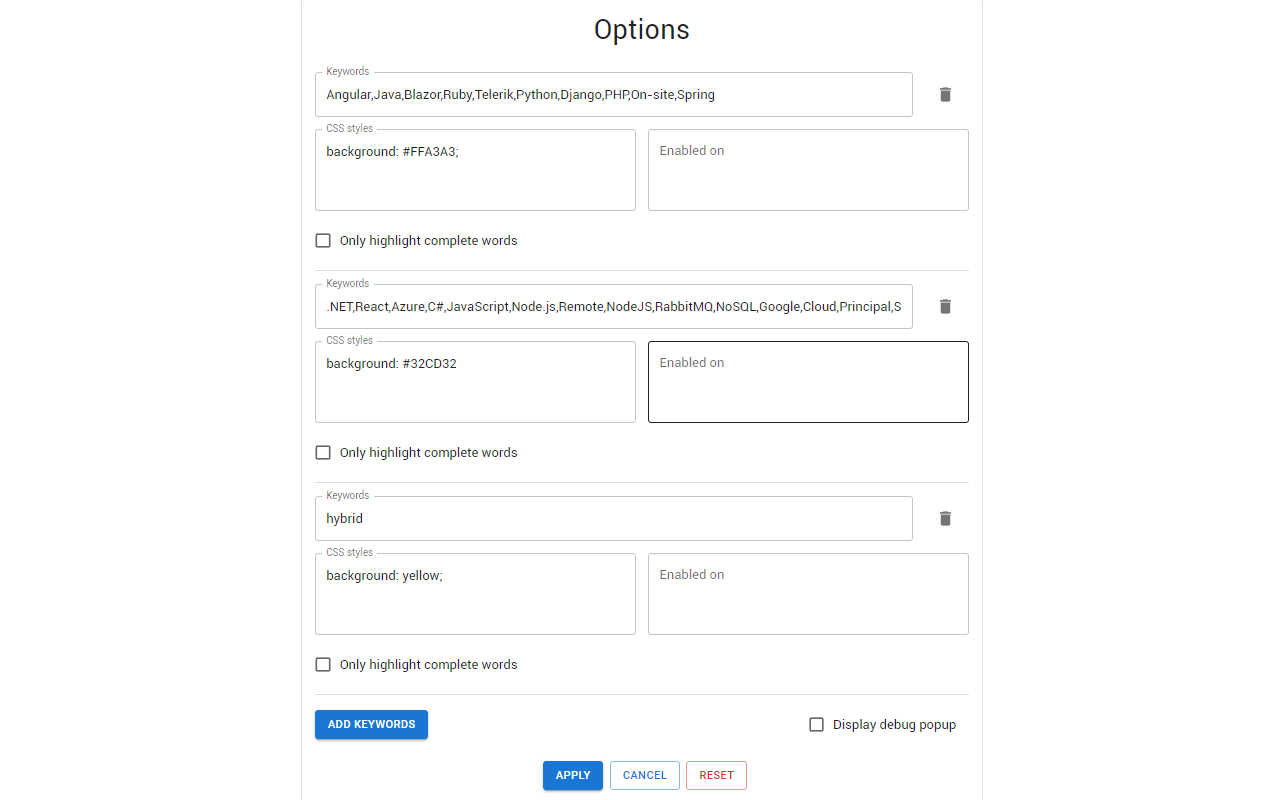
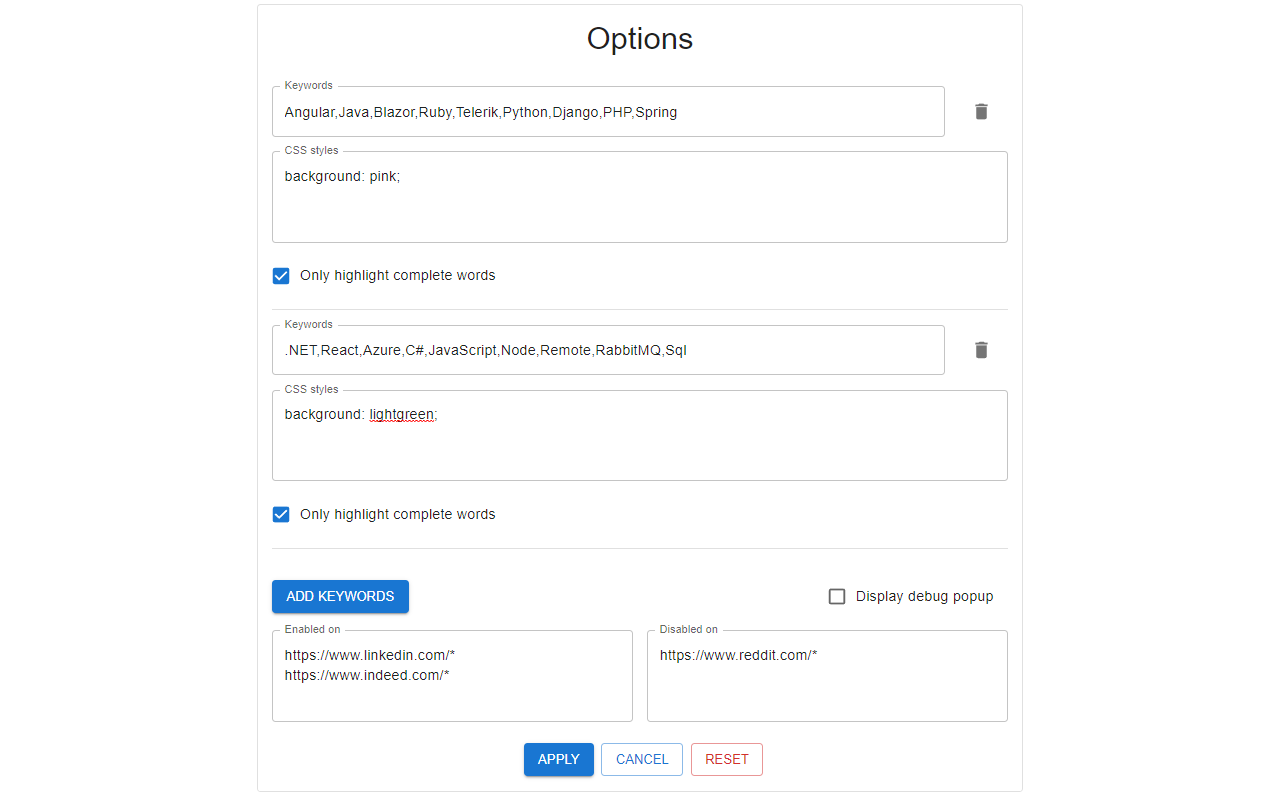
feat(options): choose the websites the ext is enabled/disabled on

diff --git a/src/pages/options/Options.tsx b/src/pages/options/Options.tsx
@@ -9,13 +9,15 @@ import Typography from "@mui/material/Typography";
 import TextField from "@mui/material/TextField";
 import FormControlLabel from "@mui/material/FormControlLabel";
 import Checkbox from "@mui/material/Checkbox";
-import Divider from "@mui/material/Divider";
 import { createTheme, ThemeProvider } from "@mui/material/styles";
 import { get, set } from "@services/storage/storageService";
 import { uid } from "@services/uidService";
 import "@pages/options/Options.css";
 import {
+  EVENT_OPTIONS_SAVED,
   SETTINGS_DEBUG,
+  SETTINGS_DISABLED_ON,
+  SETTINGS_ENABLED_ON,
   SETTINGS_KEYWORD_RULES,
   TEXT_OPTIONS,
   TEXT_OPTIONS_DISPLAY_DEBUG,
@@ -28,6 +30,8 @@ const theme = createTheme();
 
 export default function Options() {
   const [displayDebug, setDisplayDebug] = useState<boolean>(false);
+  const [enabledOn, setEnabledOn] = useState<string>();
+  const [disabledOn, setDisabledOn] = useState<string>();
   const [rules, setRules] = useState<IKeywordRule[]>([]);
 
   useEffect(() => {
@@ -35,9 +39,16 @@ export default function Options() {
   }, []);
 
   const initForm = () => {
-    get([SETTINGS_DEBUG, SETTINGS_KEYWORD_RULES]).then((result) => {
+    get([
+      SETTINGS_DEBUG,
+      SETTINGS_KEYWORD_RULES,
+      SETTINGS_ENABLED_ON,
+      SETTINGS_DISABLED_ON
+    ]).then((result) => {
       setDisplayDebug(result?.[SETTINGS_DEBUG] || false);
       setRules(result?.[SETTINGS_KEYWORD_RULES] || [createRule()]);
+      setEnabledOn(result?.[SETTINGS_ENABLED_ON] || null);
+      setDisabledOn(result?.[SETTINGS_DISABLED_ON] || null);
     });
   };
 
@@ -57,7 +68,6 @@ export default function Options() {
       id: uid(),
       keywords: null,
       cssStyles: null,
-      enabledOn: null,
       highlightCompleteWords: false,
     };
   };
@@ -80,8 +90,13 @@ export default function Options() {
   const handleApply = async () => {
     await set({
       [SETTINGS_DEBUG]: displayDebug,
+      [SETTINGS_ENABLED_ON]: enabledOn,
+      [SETTINGS_DISABLED_ON]: disabledOn,
       [SETTINGS_KEYWORD_RULES]: rules,
     });
+
+    chrome.runtime.sendMessage({ type: EVENT_OPTIONS_SAVED });
+
     alert(TEXT_OPTIONS_SAVED_SUCCESSFULLY);
   };
 
@@ -91,6 +106,18 @@ export default function Options() {
     const newRules = [createRule()];
     setRules(newRules);
     setDisplayDebug(false);
+  };
+
+  const handleEnabledOnChange: React.ChangeEventHandler<HTMLInputElement> = (
+    event
+  ) => {
+    setEnabledOn(event.target.value);
+  };
+
+  const handleDisabledOnChange: React.ChangeEventHandler<HTMLInputElement> = (
+    event
+  ) => {
+    setDisabledOn(event.target.value);
   };
 
   return (
@@ -123,7 +150,7 @@ export default function Options() {
             ))}
           </Grid>
 
-          <Grid container spacing={2} alignItems="center">
+          <Grid container spacing={2} sx={{ my: { xs: 2 } }} alignItems="center">
             <Grid item xs={6}>
               <Button variant="contained" onClick={handleAddRule}>
                 Add Keywords
@@ -140,6 +167,34 @@ export default function Options() {
                   />
                 }
                 label={TEXT_OPTIONS_DISPLAY_DEBUG}
+              />
+            </Grid>
+          </Grid>
+
+          <Grid container spacing={2}>
+            <Grid item xs={6}>
+              <TextField
+                id="enabledon"
+                label="Enabled on"
+                multiline
+                rows={3}
+                value={enabledOn}
+                placeholder="https://www.linkedin.com/*"
+                onChange={handleEnabledOnChange}
+                fullWidth
+              />
+            </Grid>
+
+            <Grid item xs={6}>
+              <TextField
+                id="disabledon"
+                label="Disabled on"
+                multiline
+                rows={3}
+                value={disabledOn}
+                placeholder="https://www.google.com/*"
+                onChange={handleDisabledOnChange}
+                fullWidth
               />
             </Grid>
           </Grid>

diff --git a/src/pages/background/index.ts b/src/pages/background/index.ts
@@ -1,10 +1,68 @@
 import reloadOnUpdate from "virtual:reload-on-update-in-background-script";
+import { getMatches } from '@services/storage/optionsService';
+import { EVENT_OPTIONS_SAVED } from "@src/services/constants";
 
-chrome.action.setPopup({ popup: '' });
+const CONTENT_SCRIPT_ID = "highlighter-script";
 
-chrome.action.onClicked.addListener(() => {
-  chrome.tabs.create({ url: 'src/pages/options/index.html' });
-});
+function openOptionsOnPopup() {
+  chrome.action.setPopup({ popup: '' });
+
+  chrome.action.onClicked.addListener(() => {
+    chrome.tabs.create({ url: 'src/pages/options/index.html' });
+  });
+}
+
+function injectContentScripts({ js, css }) {
+  getMatches()
+    .then(({ matches, excludeMatches }) => {
+      console.log('matches: ', matches);
+      console.log('exclude matches: ', excludeMatches);
+      chrome.scripting
+        .registerContentScripts([{
+          id: CONTENT_SCRIPT_ID,
+          js: js,
+          css: css,
+          matches: matches,
+          excludeMatches: excludeMatches,
+          persistAcrossSessions: false,
+        }])
+        .then(() => console.log("registration complete"))
+        .catch((err) => console.warn("unexpected error", err))
+    });
+}
+
+function addEventListeners() {
+  chrome.runtime.onMessage.addListener(({ type }) => {
+    if (type === EVENT_OPTIONS_SAVED) {
+      resetContentScripts()
+        .then(() => registerContentScripts());
+    }
+  });
+}
+
+function registerContentScripts() {
+  injectContentScripts({
+    js: ["/src/pages/content/index.js"],
+    css: ["/assets/css/contentStyle.css"]
+  });
+}
+
+function resetContentScripts() {
+  return chrome.scripting
+    .unregisterContentScripts({
+      ids: [CONTENT_SCRIPT_ID]
+    })
+}
+
+function init() {
+  openOptionsOnPopup();
+
+  registerContentScripts();
+
+  addEventListeners();
+}
+
+init();
 
 reloadOnUpdate("pages/background");
 

diff --git a/src/pages/options/components/KeywordRule.tsx b/src/pages/options/components/KeywordRule.tsx
@@ -11,7 +11,6 @@ export interface IKeywordRule {
   id: string;
   keywords: string;
   cssStyles: string;
-  enabledOn: string;
   highlightCompleteWords: boolean;
 }
 
@@ -24,7 +23,6 @@ export default function KeywordRule(props: KeywordRuleProps) {
   const {
     keywords,
     cssStyles,
-    enabledOn,
     highlightCompleteWords,
     onRuleChange,
     onDeleteRule,
@@ -45,15 +43,6 @@ export default function KeywordRule(props: KeywordRuleProps) {
     onRuleChange({
       ...props,
       cssStyles: event.target.value,
-    });
-  };
-
-  const handleEnabledOnChange: React.ChangeEventHandler<HTMLInputElement> = (
-    event
-  ) => {
-    onRuleChange({
-      ...props,
-      enabledOn: event.target.value,
     });
   };
 
@@ -95,7 +84,7 @@ export default function KeywordRule(props: KeywordRuleProps) {
         </IconButton>
       </Grid>
 
-      <Grid item xs={6}>
+      <Grid item xs={12}>
         <TextField
           id="cssstyles"
           label="CSS styles"
@@ -104,19 +93,6 @@ export default function KeywordRule(props: KeywordRuleProps) {
           value={cssStyles}
           placeholder="background: red;"
           onChange={handleCssStylesChange}
-          fullWidth
-        />
-      </Grid>
-
-      <Grid item xs={6}>
-        <TextField
-          id="enabledon"
-          label="Enabled on"
-          multiline
-          rows={3}
-          value={enabledOn}
-          placeholder="https://www.linkedin.com/"
-          onChange={handleEnabledOnChange}
           fullWidth
         />
       </Grid>

diff --git a/src/services/storage/optionsService.tsx b/src/services/storage/optionsService.tsx
@@ -1,8 +1,32 @@
-import { SETTINGS_KEYWORD_RULES } from "../constants";
+import { SETTINGS_DISABLED_ON, SETTINGS_ENABLED_ON, SETTINGS_KEYWORD_RULES } from "../constants";
 import { get } from "./storageService";
 
 export async function getRules() {
   const result = await get(SETTINGS_KEYWORD_RULES);
 
   return result?.[SETTINGS_KEYWORD_RULES] || [];
+}
+
+async function getEnabledOn() {
+  const result = await get(SETTINGS_ENABLED_ON);
+
+  return result?.[SETTINGS_ENABLED_ON] || null;
+}
+
+async function getDisabledOn() {
+  const result = await get(SETTINGS_DISABLED_ON);
+
+  return result?.[SETTINGS_DISABLED_ON] || null;
+}
+
+export async function getMatches() {
+  const SEPARATOR = '\n';
+
+  const enabledOn = await getEnabledOn();
+  const disabledOn = await getDisabledOn();
+
+  return {
+    matches: enabledOn?.split(SEPARATOR) || ['<all_urls>'],
+    excludeMatches: disabledOn?.split(SEPARATOR) || [],
+  };
 }

diff --git a/src/pages/content/components/index.tsx b/src/pages/content/components/index.tsx
@@ -2,7 +2,7 @@ import { createRoot } from "react-dom/client";
 import DebugPopup from "@src/pages/content/components/DebugPopup";
 import App from "@src/pages/content/components/App";
 import { get } from "@services/storage/storageService";
-import { SETTINGS_DEBUG, SETTINGS_KEYWORD_RULES } from "@services/constants";
+import { SETTINGS_DEBUG } from "@services/constants";
 import refreshOnUpdate from "virtual:reload-on-update-in-view";
 import { getRules } from "@src/services/storage/optionsService";
 
@@ -34,6 +34,10 @@ const initApp = () => {
 };
 
 const addStyleBlock = (className: string, styles: string) => {
+  if (!className || !styles) {
+    return;
+  }
+
   var sheet = document.createElement("style");
   sheet.innerHTML = `.${className} { ${styles} }`;
   document.body.appendChild(sheet);

diff --git a/manifest.ts b/manifest.ts
@@ -20,17 +20,14 @@ const manifest: chrome.runtime.ManifestV3 = {
     "128": "icon-128.png",
   },
   permissions: [
-    "storage"
+    "storage",
+    "scripting",
   ],
-  content_scripts: [
-    {
-      //matches: ["http://*/*", "https://*/*", "<all_urls>"],
-      matches: ["https://www.linkedin.com/*"],
-      js: ["src/pages/content/index.js"],
-      // KEY for cache invalidation
-      css: ["assets/css/contentStyle<KEY>.chunk.css"],
-    },
+  host_permissions: [
+    "http://*/*",
+    "https://*/*"
   ],
+  content_scripts: [],
   web_accessible_resources: [
     {
       resources: [

diff --git a/src/services/constants.tsx b/src/services/constants.tsx
@@ -1,4 +1,6 @@
 export const SETTINGS_DEBUG = "settings.debug";
+export const SETTINGS_ENABLED_ON = "settings.enabledOn";
+export const SETTINGS_DISABLED_ON = "settings.disabledOn";
 export const SETTINGS_KEYWORD_RULES = "settings.keyword_rules";
 export const OBSERVABLE_DEBOUNCE_TIME_MS = 500;
 
@@ -7,3 +9,5 @@ export const TEXT_OPTIONS = "Options";
 export const TEXT_OPTIONS_DISPLAY_DEBUG = "Display debug popup";
 export const TEXT_OPTIONS_SAVED_SUCCESSFULLY =
   "Your options have been successfully saved.";
+
+export const EVENT_OPTIONS_SAVED = "options.saved";

diff --git a/vite.config.ts b/vite.config.ts
@@ -65,7 +65,7 @@ export default defineConfig({
           const assetFolder = dir.split("/").at(-1);
           const name = assetFolder + firstUpperCase(_name);
           if (name === "contentStyle") {
-            return `assets/css/contentStyle${cacheInvalidationKey}.chunk.css`;
+            return `assets/css/contentStyle.css`;
           }
           return `assets/[ext]/${name}.chunk.[ext]`;
         },

diff --git a/src/pages/content/components/App.tsx b/src/pages/content/components/App.tsx
@@ -16,9 +16,15 @@ export default function App() {
     };
   };
 
+  const filter = (rule: IKeywordRule) => {
+    return rule.keywords?.length;
+  };
+
   useEffect(() => {
     getRules().then((rules) => {
-      setRules(rules.map(map));
+      setRules(rules
+        .filter(filter)
+        .map(map));
     });
   }, []);
 

diff --git a/src/services/storage/storageService.tsx b/src/services/storage/storageService.tsx
@@ -1,7 +1,7 @@
 export function set(items: { [key: string]: any }): Promise<void> {
-  return chrome.storage.local.set(items);
+  return chrome.storage.sync.set(items);
 }
 
 export function get(key?: string | string[]): Promise<object> {
-  return chrome.storage.local.get(key);
+  return chrome.storage.sync.get(key);
 }

diff --git a/src/pages/content/style.scss b/src/pages/content/style.scss
@@ -23,7 +23,3 @@
   font-size: 14px;
   color: white;
 }
-
-.highlighted {
-  background-color: yellow;
-}
